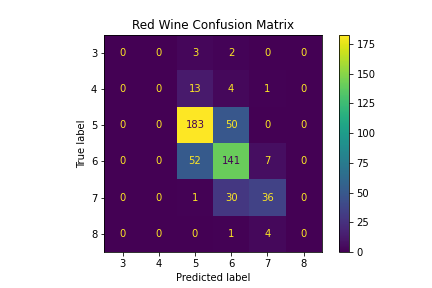
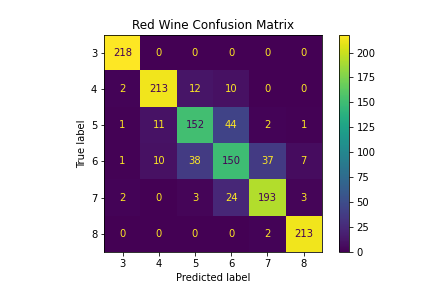
updated website
added updated info and images for hepmass and wine quality

diff --git a/post/index.html b/post/index.html
@@ -180,7 +180,7 @@ Relevant paper: Guevara, E., Torres-Galván, J. C., Ramírez-Elías, M.
       </a>
     </h1>
     <div class="nested-links f5 lh-copy nested-copy-line-height">
-      Used Monte Carlo simulated data to find particle of unknown mass in a particle collision 7M examples in training set, 3.5M in test set Created parameterized neural network where the parameters were different possible masses Detected 1000 GeV particle with 85% accuracy without being trained on that data   Dataset came from UC Irvine&rsquo;s Machine Learning Repository.
+      Used Monte Carlo simulated data to find particle of unknown mass in a particle collision 7M examples in training set, 3.5M in test set Created parameterized neural network where the parameters were different possible masses Detected 1000 GeV particle with 91% accuracy without being trained on that data   Dataset came from UC Irvine&rsquo;s Machine Learning Repository.
 Relevent paper: Pierre Baldi, Kyle Cranmer, Taylor Faucett, Peter Sadowski, and Daniel Whiteson.
     </div>
   </div>
@@ -201,8 +201,8 @@ Relevent paper: Pierre Baldi, Kyle Cranmer, Taylor Faucett, Peter Sadowski, and 
       </a>
     </h1>
     <div class="nested-links f5 lh-copy nested-copy-line-height">
-      Used Random Forest classification to predict quality of red &amp; white wines from Vinho Verde region of Portugal Prediction based on 11 physicochemical properties (ABV, acidity, sulfates, etc.) Analyzed 1600 red &amp; 4900 white wines, classes were imbalanced Achieved overall precision of 70% on red wine and 67% on white wine    Dataset came from UC Irvine&rsquo;s Machine Learning Repository.
-Relevant paper: P. Cortez, A. Cerdeira, F. Almeida, T.
+      Used Random Forest classification to predict quality of red &amp; white wines from Vinho Verde region of Portugal Prediction based on 11 physicochemical properties (ABV, acidity, sulfates, etc.) Analyzed 1600 red &amp; 4900 white wines, classes were imbalanced Achieved overall precision of 85% for both red &amp; white wine    Dataset came from UC Irvine&rsquo;s Machine Learning Repository.
+Relevant paper: P. Cortez, A. Cerdeira, F. Almeida, T. Matos and J.
     </div>
   </div>
 

diff --git a/index.html b/index.html
@@ -212,7 +212,7 @@ Relevant paper: Guevara, E., Torres-Galván, J. C., Ramírez-Elías, M.
         
         <div class="pr3-ns mb4 mb0-ns w-100 w-40-ns">
           <a href="https://nathanwright11.github.io/post/project-2/" class="db grow">
-            <img src="https://nathanwright11.github.io/images/pred_events.png" class="img" alt="image from Particle Detection">
+            <img src="https://nathanwright11.github.io/images/predSigHist.png" class="img" alt="image from Particle Detection">
           </a>
         </div>
       
@@ -223,7 +223,7 @@ Relevant paper: Guevara, E., Torres-Galván, J. C., Ramírez-Elías, M.
             </a>
         </h1>
         <div class="f6 f5-l lh-copy nested-copy-line-height nested-links">
-          Used Monte Carlo simulated data to find particle of unknown mass in a particle collision 7M examples in training set, 3.5M in test set Created parameterized neural network where the parameters were different possible masses Detected 1000 GeV particle with 85% accuracy without being trained on that data   Dataset came from UC Irvine&rsquo;s Machine Learning Repository.
+          Used Monte Carlo simulated data to find particle of unknown mass in a particle collision 7M examples in training set, 3.5M in test set Created parameterized neural network where the parameters were different possible masses Detected 1000 GeV particle with 91% accuracy without being trained on that data   Dataset came from UC Irvine&rsquo;s Machine Learning Repository.
 Relevent paper: Pierre Baldi, Kyle Cranmer, Taylor Faucett, Peter Sadowski, and Daniel Whiteson.
         </div>
           <a href="https://nathanwright11.github.io/post/project-2/" class="ba b--moon-gray bg-light-gray br2 color-inherit dib f7 hover-bg-moon-gray link mt2 ph2 pv1">read more</a>

diff --git a/about/index.html b/about/index.html
@@ -145,7 +145,7 @@
     <section class="cf ph3 ph5-l pv3 pv4-l f4 tc-l center measure-wide lh-copy mid-gray"><figure><img src="https://nathanwright11.github.io/images/profile_pic.jpg"/>
 </figure>
 
-<p>My name is Nathan Wright and I recently received a B.S. in Physics from Cal State East Bay. My Junior year at Easy Bay, I was a research assistant in an experimental physics labs doing laser spectroscopy. As a Senior, I was a research assistant in a lab conducting dark matter research. I have a range of interests in Physics and Computer Science, and am looking to use my experience to make a career in Data Science.</p>
+<p>My name is Nathan Wright and I recently received a B.S. in Physics from Cal State East Bay. My Junior year at Easy Bay, I was a research assistant in an experimental physics labs doing laser spectroscopy where I helped to write Python software which would determine the number of atomic layers in material samples. As a Senior, I was a research assistant in a lab conducting dark matter research, where I assisted in developing Python code to simulate experimental results. I have a range of interests in Physics and Computer Science, and am looking to use my experience to make a career in Data Science.</p>
 </section>
     <section class="flex-ns flex-wrap justify-around mt5">
       

diff --git a/post/project-3/index.html b/post/project-3/index.html
@@ -36,7 +36,7 @@
 <meta itemprop="name" content="Wine Quality">
 <meta itemprop="description" content="Predicts the quality of Portugese wine"><meta itemprop="datePublished" content="2020-10-14T11:13:32-04:00" />
 <meta itemprop="dateModified" content="2020-10-14T11:13:32-04:00" />
-<meta itemprop="wordCount" content="88">
+<meta itemprop="wordCount" content="86">
 <meta itemprop="keywords" content="" /><meta name="twitter:card" content="summary"/>
 <meta name="twitter:title" content="Wine Quality"/>
 <meta name="twitter:description" content="Predicts the quality of Portugese wine"/>
@@ -181,7 +181,7 @@
 <li>Used Random Forest classification to predict quality of red &amp; white wines from Vinho Verde region of Portugal</li>
 <li>Prediction based on 11 physicochemical properties (ABV, acidity, sulfates, etc.)</li>
 <li>Analyzed 1600 red &amp; 4900 white wines, classes were imbalanced</li>
-<li>Achieved overall precision of 70% on red wine and 67% on white wine</li>
+<li>Achieved overall precision of 85% for both red &amp; white wine</li>
 </ul>
 <p><figure><img src="https://nathanwright11.github.io/images/red_confusion_matrix.png"/>
 </figure>

diff --git a/post/project-2/index.html b/post/project-2/index.html
@@ -52,7 +52,7 @@
 
   
   
-  <header class="cover bg-top" style="background-image: url('https://nathanwright11.github.io/images/pred_events.png');">
+  <header class="cover bg-top" style="background-image: url('https://nathanwright11.github.io/images/predSigHist.png');">
     <div class="pb3-m pb6-l bg-black-60">
       <nav class="pv3 ph3 ph4-ns" role="navigation">
   <div class="flex-l justify-between items-center center">
@@ -193,9 +193,9 @@
 <li>Used Monte Carlo simulated data to find particle of unknown mass in a particle collision</li>
 <li>7M examples in training set, 3.5M in test set</li>
 <li>Created parameterized neural network where the parameters were different possible masses</li>
-<li>Detected 1000 GeV particle with 85% accuracy without being trained on that data</li>
+<li>Detected 1000 GeV particle with 91% accuracy without being trained on that data</li>
 </ul>
-<figure><img src="https://nathanwright11.github.io/images/pred_events.png"/>
+<figure><img src="https://nathanwright11.github.io/images/predSigHist.png"/>
 </figure>
 
 <p>Dataset came from UC Irvine&rsquo;s Machine Learning Repository.</p>
